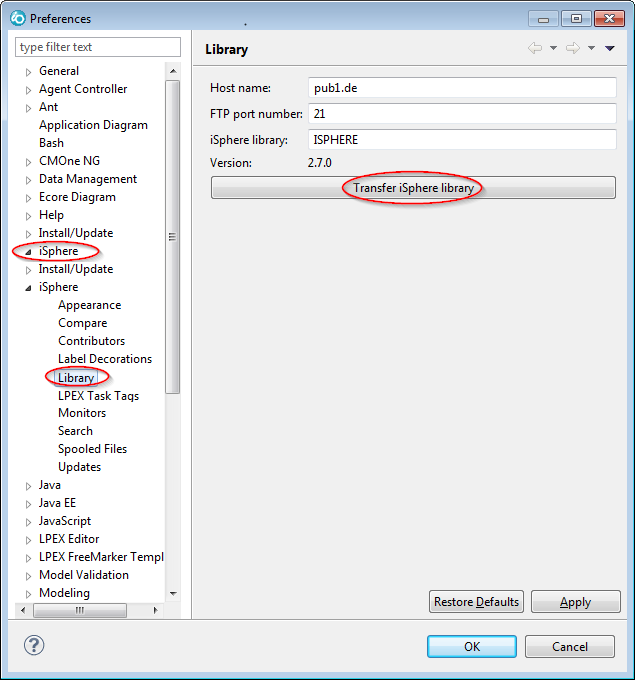
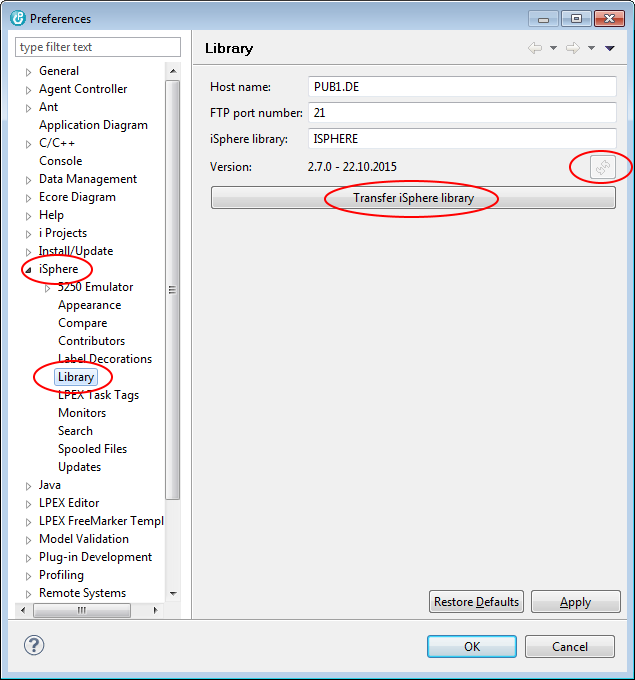
Improved the iSphere help.

diff --git a/eclipse/iSphere Help 5250 Emulator/html/5250emulator/session/session.html b/eclipse/iSphere Help 5250 Emulator/html/5250emulator/session/session.html
@@ -9,6 +9,14 @@
 <body>
 	<h1>Session</h1>
 	<p>
+	<ul>
+	<li><a href="#creating_a_session">Creating a Session</a></li>
+	<li><a href="#starting_a_session">Starting a Session</a></li>
+	<li><a href="#starting_multiple_sessions">Starting Multiple Sessions</a></li>
+	<li><a href="#using_eclipse_key_bindings">Using Eclipse Key Bindings</a></li>
+	</ul>
+	<p>
+	<a id="creating_a_session"></a>
 	<h2>Creating a Session</h2>
 	<p>
 	Right-click the "iSphere 5250 Emulator" node of the <i>Remote Systems</i> view and select "New session".
@@ -68,8 +76,9 @@
 		<tr>
 			<td valign="top" nowrap>Library</td>
 			<td valign="top">-</td>
-			<td valign="top">Specifies the name of the library that is search for the program that is called 
-			                 after the user has been signed on. 
+			<td valign="top">Specifies the name of the library that is searched for the program that is called 
+			                 after the user has been signed on. Use special value %ISPHERE% for the current iSphere
+			                 library name of the connection.
 			                 (See: user profile parameter INLPGM)</td>
 		</tr>
 		<tr>
@@ -81,6 +90,7 @@
 		</tr>
 	</table>
 	<p>
+	<a id="starting_a_session"></a>
 	<h2>Starting a Session</h2>
 	<p>
 	Double click a session entry to start a new session:
@@ -91,6 +101,7 @@
 	<p>
 		<img src="assets/active_session.png" align="middle">
 	<p>
+	<a id="starting_multiple_sessions"></a>
 	<h2>Starting Multiple Sessions</h2>
 	<p>
 	You can add up to 3 additional sessions with the little plus button at the top right corner of
@@ -105,6 +116,16 @@
 	next session or "Alt-Arrow Down" to select the previous session.
 	<p>
     To close a session click on the little minus icon next to the plus icon. The current session will be closed.
+	<p>
+	<a id="using_eclipse_key_bindings"></a>
+	<h2>Using Eclipse Key Bindings</h2>
+	<p>
+	By default the Eclipse key bindings are disabled where the focus is on a 5250 session. Therefore you cannot 
+	for example use Ctrl+F7 to switch between views or Ctrl+F8 to select another perspective. However you can use 
+	Ctrl+F12 to enable or disable the Eclipse key binding. 
+	<p>
+	So if you want to use Ctrl+F8 to select another perspective, you first need to press Crtl+F12 to enable the 
+	Eclipse key binding. The press Ctrl+F8 for changing the perspective.
 	<p>
 		<iframe src="../../copyright.html" width="100%" frameborder="0"
 			marginheight="0" marginwidth="0"></iframe>

diff --git a/eclipse/iSphere Help Base Plugin/html/install/install_library.html b/eclipse/iSphere Help Base Plugin/html/install/install_library.html
@@ -49,10 +49,13 @@
 		<li>In &quot;Host name:&quot; enter the name of the IBM i host
 			system. (You could also enter an IP address.) <br> Review the
 			&quot;FTP port number&quot; and the name of the &quot;iSphere
-			library&quot;. The default FTP port is 21. The default library nameis
+			library&quot;. The default FTP port is 21. The default library name is
 			ISPHERE. <b>Note:</b> You may use another library name, but be aware
 			that this library will be <b>deleted</b> if it exists.<br> Click
 			the [Transfer iSphere library] button.
+		<li>Use the refresh button to retrieve the version of the iSphere library. Once
+		    pressed, the version is automatically updated as the library name changes.
+		    Auto-update is disabled, when the host name is changed.</li>
 			<p>
 				<img src="./assets/library.png" />
 			<p>(The screenshot above is from RDi, but the WDSC screen is very
@@ -100,6 +103,13 @@
 			<p>
 		</li>
 	</ul>
+	<p>
+	<table>
+		<tr>
+			<td class="info">Use the <a href="/help/topic/biz.isphere.core.help/html/connection/properties.html">connection properties</a>
+			                 to specify a different iSphere library for certain connections.</td>
+		</tr>
+	</table>
 	<p>
 		<br> <a id="by_hand"></a>
 	<h2>Doing it By Hand</h2>

diff --git a/eclipse/iSphere Help 5250 Emulator/html/5250emulator/configuration/configuration.html b/eclipse/iSphere Help 5250 Emulator/html/5250emulator/configuration/configuration.html
@@ -8,15 +8,22 @@
 </head>
 <body>
 	<h1>Configuration</h1>
+	<ul>
+	<li><a href="#key_settings">Key Settings</a></li>
+	<li><a href="#minimal_session_size">Minimal Session Size</a></li>
+	<li><a href="#session_defaults">Session Defaults</a></li>
+	</ul>
 	<p>
-	<h2>Key settings</h2>
+	<a id="key_settings" />
+	<h2>Key Settings</h2>
 	<p>
 	The <i>Key settings</i> page is nothing more than a reminder
 	for the global key mappings of the 5250 emulator.
 	<p>
 		<img src="assets/key_settings.png" align="middle">
 	<p>
-	<h2>Minimal session size</h2>
+	<a id="minimal_session_size" />
+	<h2>Minimal Session Size</h2>
 	<p>
 	This page specifies the minimal session size of a 5250 session.
 	<p>
@@ -49,7 +56,8 @@
 		</tr>
 	</table>
 	<p>
-	<h2>Session defaults</h2>
+	<a id="session_defaults"></a>
+	<h2>Session Defaults</h2>
 	<p>
 	This page specifies the session defaults that are used, when creating a new 5250 session configuration.
 	<p>

diff --git a/eclipse/iSphere Help 5250 Emulator/html/5250emulator/problems/problems.html b/eclipse/iSphere Help 5250 Emulator/html/5250emulator/problems/problems.html
@@ -1,0 +1,22 @@
+<!DOCTYPE HTML PUBLIC "-//W3C//DTD HTML 4.0 Transitional//EN">
+
+<html>
+<head>
+<meta http-equiv="Content-Type" content="text/html; charset=iso-8859-1">
+<link rel="stylesheet" type="text/css" href="../../stylesheet.css">
+<title>Known Problems</title>
+</head>
+<body>
+	<h1>Known Problems</h1>
+	<p>
+	<h2>Eclipse Help Key Mapping</h2>
+	<p>
+	When pressing F1 or Shift+F1 in a TN5250J session, the eclipse help view will automatically be 
+	opened. You can prevent that, by changing the TN5250J key bindings of F1 and Shift+F1 to Alt+F1 
+	and Alt+Shift+F1.
+	<p>
+	There is no known solution for disabling the Eclipse help key.
+	<p>
+	<iframe src="../../copyright.html" width="100%" frameborder="0"	marginheight="0" marginwidth="0" />
+</body>
+</html>
